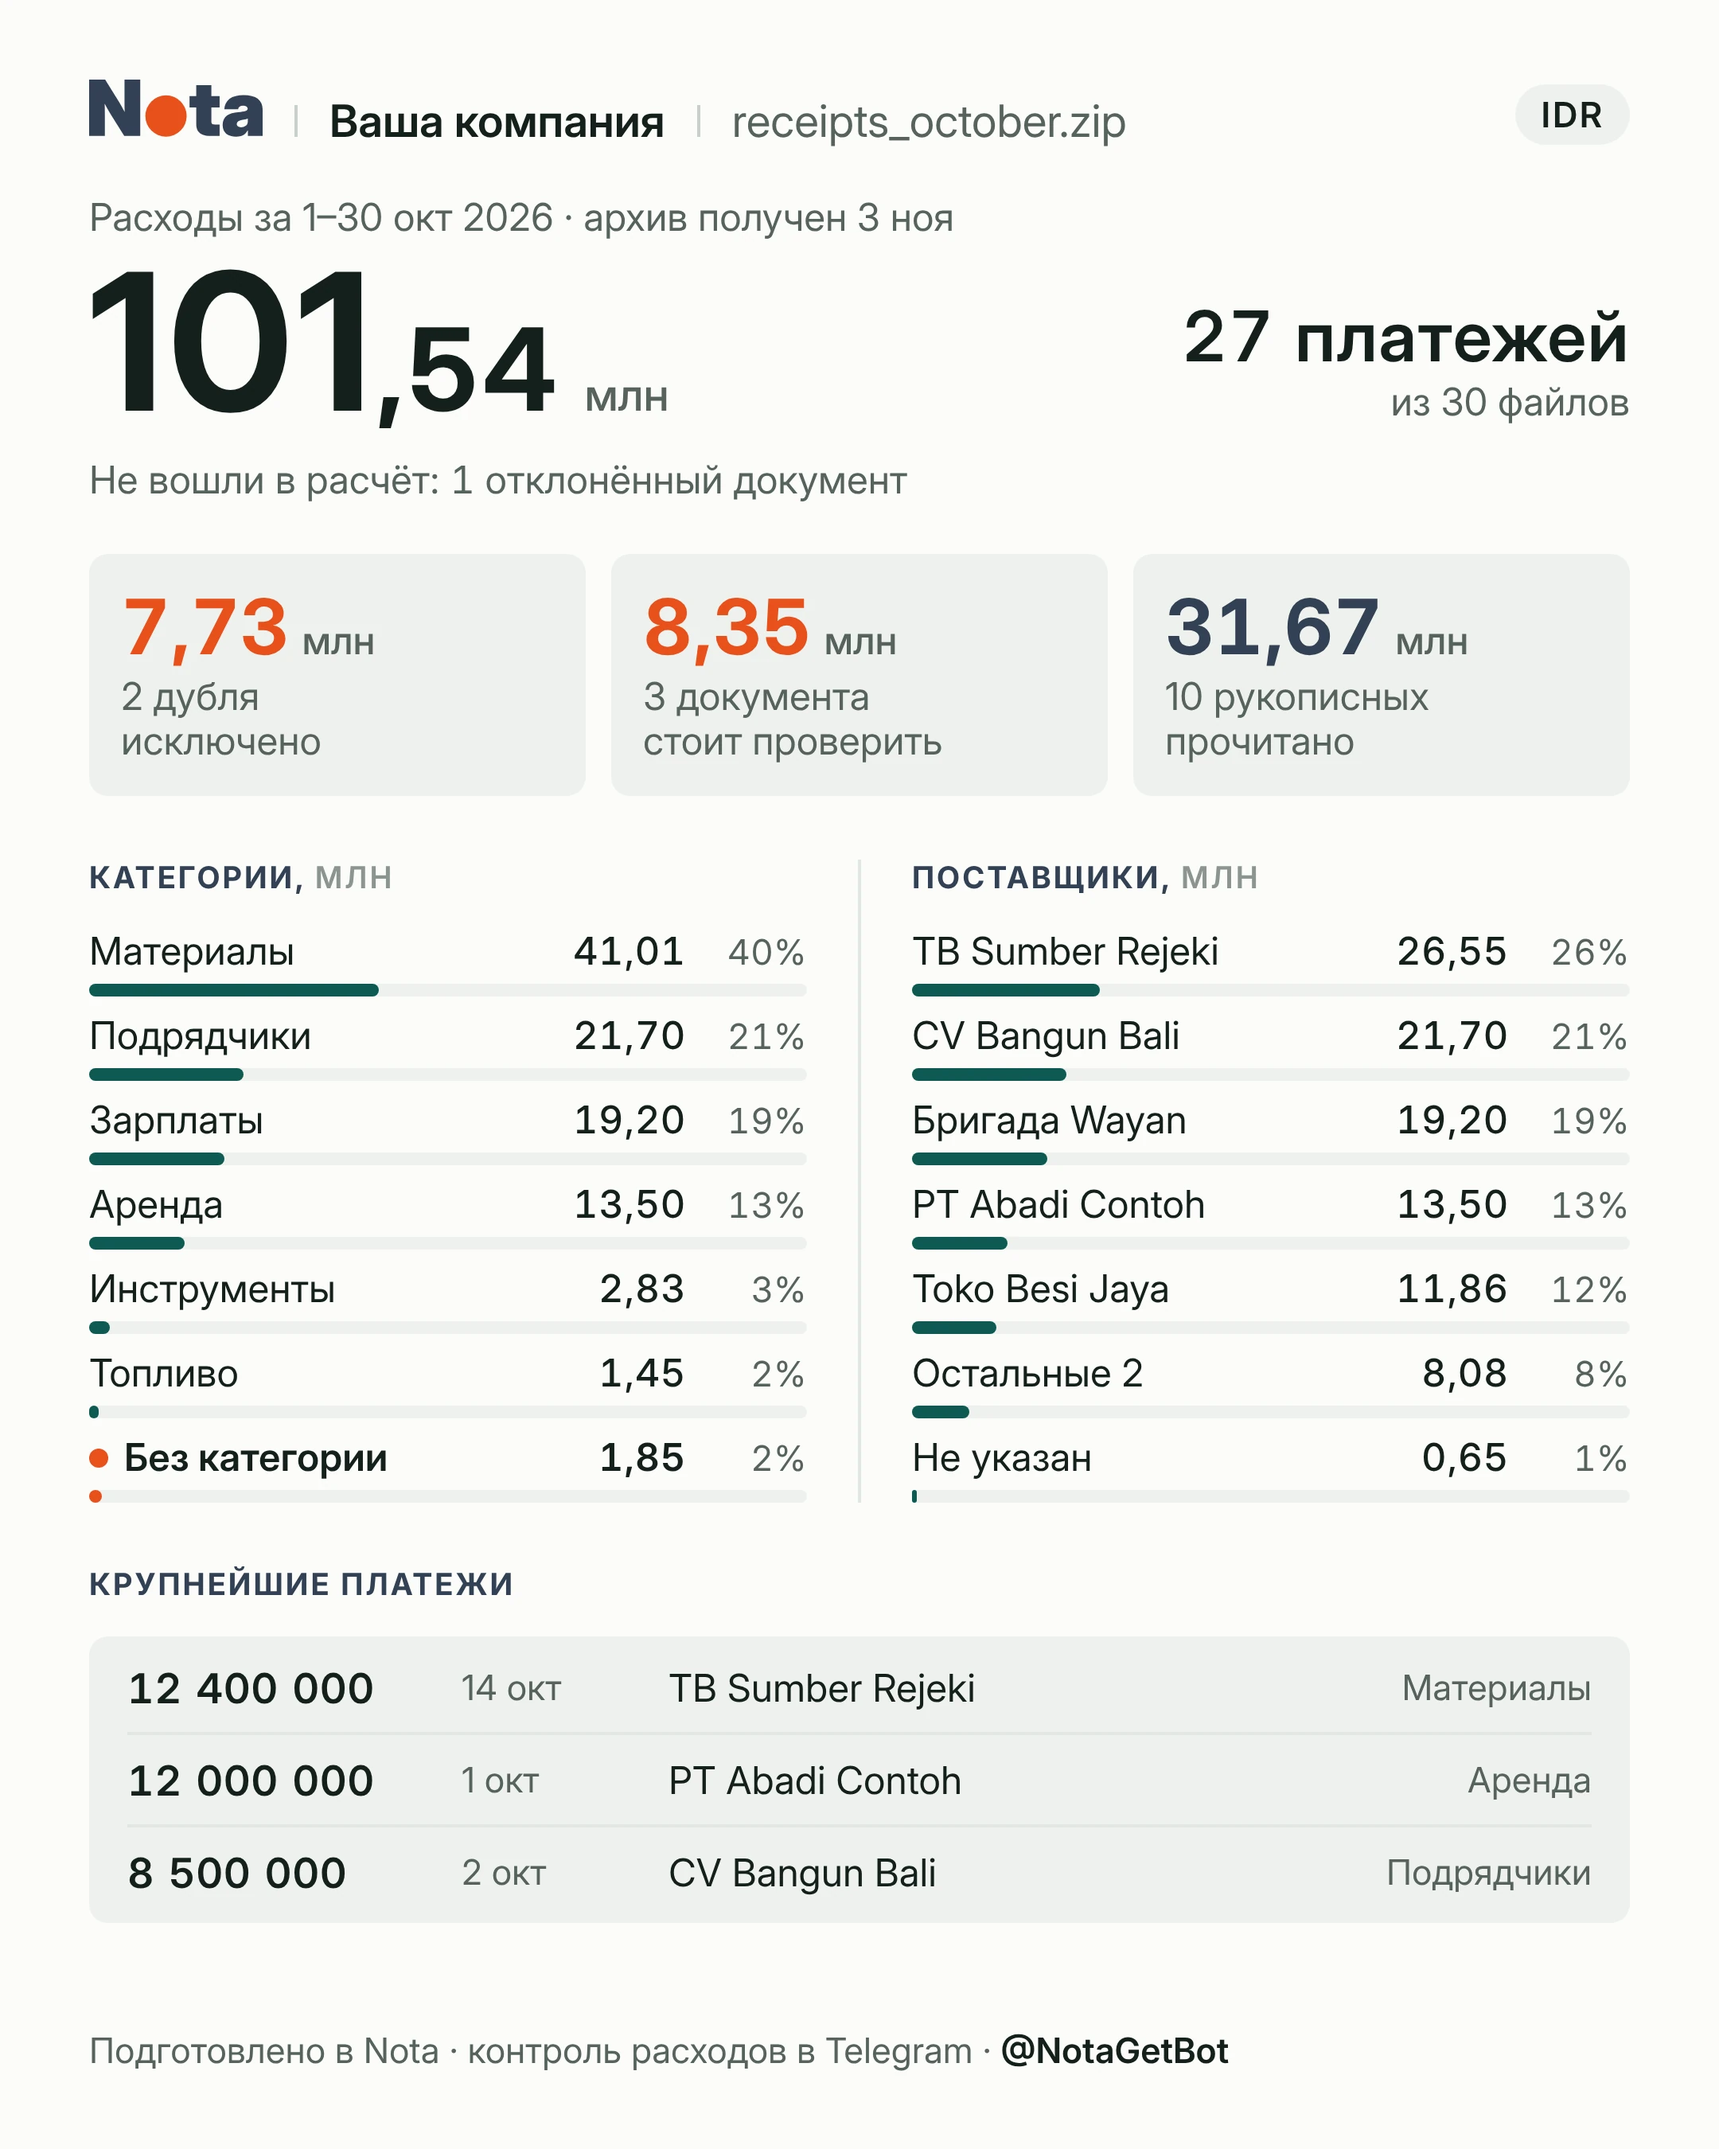
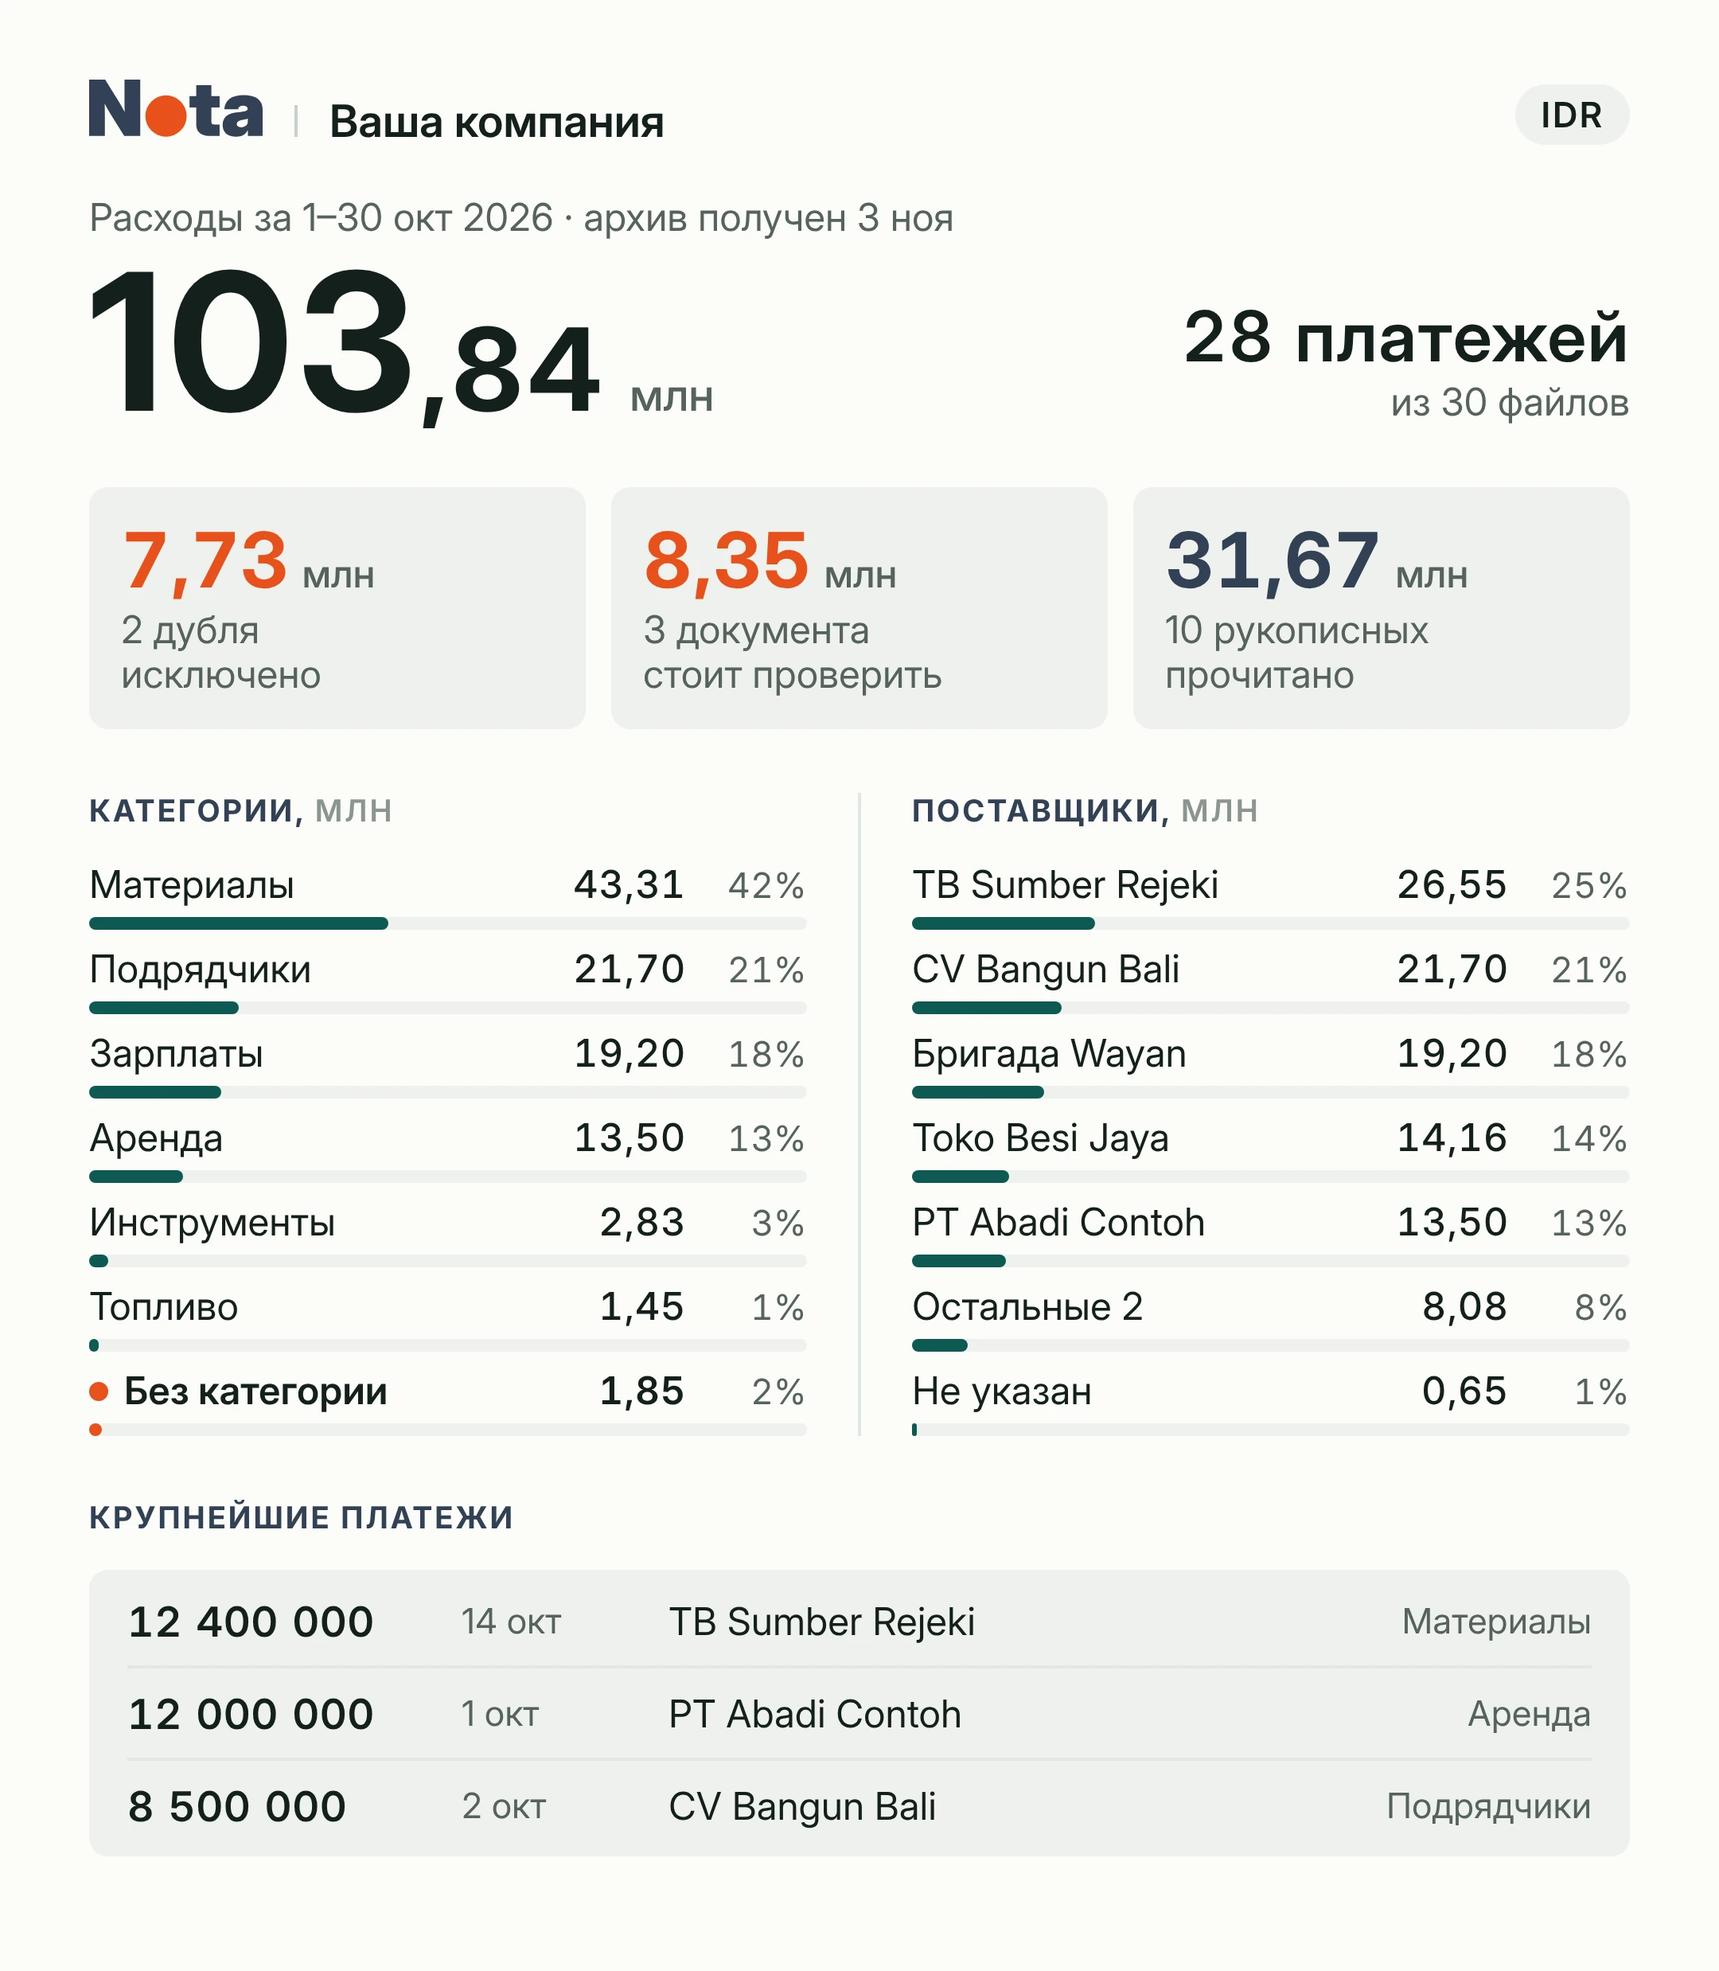
Лендинг v11: чистый короткий пример отчёта, без шапки над скриншотами таблицы
- Пример отчёта для сайта без имени файла и нижней строки «Подготовлено в Nota»,
  28 платежей из 30 файлов, 1080 × 1238; пропорции и высоты колонок под него только для v11.
  Собирается скриптом founder/report-cards/site-example.py; отчёты бота не меняются.
- Шапка «Nota · Google Таблицы» над скриншотами убрана на главной (параметр bar у ScreenSlot,
  архивные версии не тронуты).
- Обновлены картинка для соцсетей и подписи alt.

Claude-Session: https://claude.ai/code/session_01L3HhR7LSGwJtypFbeUeh92

diff --git a/nota/src/data/content-v11.ts b/nota/src/data/content-v11.ts
@@ -17,7 +17,7 @@ export const meta = {
   description:
     'Telegram-бот для чеков сотрудников. Пришлите архив чеков и накладных и через 15 минут получите отчёт о расходах с дублями и странными суммами. ' + FREE + ' бесплатно.',
   // Подпись к картинке для соцсетей (og:image:alt)
-  ogAlt: 'Nota: пришлите архив чеков — получите отчёт о расходах за 15 минут. Пример отчёта: 101,54 млн рупий, 27 платежей, 2 дубля',
+  ogAlt: 'Nota: пришлите архив чеков — получите отчёт о расходах за 15 минут. Пример отчёта: 103,84 млн рупий, 28 платежей, 2 дубля',
 };
 
 // Главная кнопка называет результат, а не усилие, и повторяет обещание заголовка (решение основателя 15.11).
@@ -52,7 +52,7 @@ export const hero = {
     ],
   },
   // Отчёт в двух размерах: 1080 — обычные экраны, 2160 — телефоны и экраны с высокой плотностью (жалоба на чёткость, 16.11)
-  report: { file: '/screens/report-archive-1080.webp', file2x: '/screens/report-archive-2160.webp', w: 1080, h: 1350, caption: 'Пример отчёта' },
+  report: { file: '/screens/report-archive-1080.webp', file2x: '/screens/report-archive-2160.webp', w: 1080, h: 1238, caption: 'Пример отчёта' },   // 19.11: без имени файла и нижней строки — короче
 };
 
 const drive = (s: string) => s.replace('на вашем Диске', 'на вашем Google Диске');

diff --git a/nota/src/styles/global.css b/nota/src/styles/global.css
@@ -1061,3 +1061,9 @@ html:not([data-hero="old"]) .v10 .cta-qr, .v10 .cta-qr { max-width: 200px; }
   .v11 #send .send-head { gap: 8px; }
   .v11 #send .send-head h3 { font-size: 19px; }
 }
+/* v11, 19.11: пример отчёта короче — 1080 × 1238 (без имени файла и нижней строки «Подготовлено в Nota»); пропорции и высоты колонок под него */
+@media (min-width: 1000px) {
+  html:not([data-rep="plain"]) .v9.v11 .story-fig img { width: min(100%, calc((100vh - 150px) * 0.8724)); aspect-ratio: 1080 / 1238; }
+  html:not([data-rep="plain"]) .v9.v11 #result { min-height: calc(min(596px, 100vh - 150px) + 34px + 112px); }
+  .v10.v11 .hero-left { min-height: calc(min(596px, 100vh - 150px) + 34px); }
+}

diff --git a/founder/report-cards/site-example.py b/founder/report-cards/site-example.py
@@ -1,0 +1,47 @@
+# Пример отчёта для сайта (nota/public/screens/report-archive-*.webp) и картинки для соцсетей.
+#   python3 site-example.py <папка_для_результата>
+# Карточку собирает генератор (generator/cards.py) на выдуманных данных, потом для сайта убираются имя файла в шапке
+# и нижняя строка «Подготовлено в Nota» (основатель, 19.11). Настоящие отчёты в боте остаются с ними.
+# Данные: 30 файлов = 28 платежей + 2 дубля, отклонённых нет — поэтому строки «Не вошли в расчёт» нет.
+import os, re, sys, subprocess, datetime as dt
+HERE = os.path.dirname(os.path.abspath(__file__)); sys.path.insert(0, os.path.join(HERE, 'generator'))
+import cards as C
+
+D = lambda d: dt.date(2026, 10, d)
+R = lambda d, a, cat, payee, typ='Receipt', check='OK', status='': dict(date=D(d), amount=a, cat=cat, payee=payee, type=typ, check=check, status=status)
+ROWS = [
+    R(1, 12_000_000, 'Аренда', 'PT Abadi Contoh', 'Invoice'), R(2, 8_500_000, 'Подрядчики', 'CV Bangun Bali', 'Invoice'),
+    R(3, 6_750_000, 'Материалы', 'TB Sumber Rejeki'), R(4, 2_350_000, 'Материалы', 'UD Sumber Air', 'Hand'),
+    R(5, 4_800_000, 'Зарплаты', 'Бригада Wayan', 'Hand'), R(6, 450_000, 'Топливо', 'Bengkel Sinar'),
+    R(7, 3_900_000, 'Материалы', 'Toko Besi Jaya', 'Hand'), R(8, 5_200_000, 'Подрядчики', 'CV Bangun Bali', 'Invoice'),
+    R(9, 1_850_000, 'Инструменты', 'Toko Besi Jaya'), R(10, 4_100_000, 'Материалы', 'TB Sumber Rejeki', check='Review'),
+    R(11, 4_800_000, 'Зарплаты', 'Бригада Wayan', 'Hand'), R(12, 1_780_000, 'Материалы', 'UD Sumber Air', 'Hand'),
+    R(14, 12_400_000, 'Материалы', 'TB Sumber Rejeki', 'Invoice'), R(15, 520_000, 'Топливо', 'Bengkel Sinar'),
+    R(16, 3_600_000, 'Подрядчики', 'CV Bangun Bali', 'Invoice', check='Review'), R(17, 2_270_000, 'Материалы', 'Toko Besi Jaya', 'Hand'),
+    R(18, 4_800_000, 'Зарплаты', 'Бригада Wayan', 'Hand'), R(19, 650_000, '', '', 'Hand', check='Review'),
+    R(20, 980_000, 'Инструменты', 'UD Sumber Air'), R(21, 3_300_000, 'Материалы', 'TB Sumber Rejeki'),
+    R(22, 480_000, 'Топливо', 'Bengkel Sinar'), R(23, 4_400_000, 'Подрядчики', 'CV Bangun Bali', 'Invoice'),
+    R(24, 1_520_000, 'Материалы', 'UD Sumber Air', 'Hand'), R(25, 4_800_000, 'Зарплаты', 'Бригада Wayan', 'Hand'),
+    R(26, 2_300_000, 'Материалы', 'Toko Besi Jaya'), R(27, 2_640_000, 'Материалы', 'Toko Besi Jaya'),
+    R(28, 1_200_000, '', 'Toko Besi Jaya'), R(30, 1_500_000, 'Аренда', 'PT Abadi Contoh', 'Invoice'),
+    R(9, 6_750_000, 'Материалы', 'TB Sumber Rejeki', check='DBL', status='Rejected'),   # тот же чек от другого сотрудника
+    R(21, 980_000, 'Инструменты', 'UD Sumber Air', check='DBL'),
+]
+
+def site_card():
+    h = C.archive_card(ROWS, 'Ваша компания', 'receipts_october.zip', dt.date(2026, 11, 3), loc='ru', cur='IDR')
+    # имя файла в шапке (с разделителем перед ним)
+    h2 = re.sub(r'<div style="flex: none; width: 2px; height: 20px; background: #C9D0CB"></div><div style="flex: 1 1 0;[^>]*>receipts_october\.zip</div>', '', h, count=1)
+    assert h2 != h, 'не нашёл имя файла в шапке'
+    # нижняя строка «Подготовлено в Nota · …»
+    i = h2.find('Подготовлено в Nota'); a = h2.rfind('<div style="padding-top: 32px; ', 0, i); b = h2.find('</div>', h2.find('@NotaGetBot', i)) + 6
+    assert a > 0, 'не нашёл нижнюю строку'
+    return h2[:a] + h2[b:]
+
+if __name__ == '__main__':
+    out = sys.argv[1] if len(sys.argv) > 1 else '.'
+    os.makedirs(out, exist_ok=True)
+    inc, dbl, rev, rej = C.classify(C.norm_rows(ROWS))
+    print('файлов', len(ROWS), '· платежей', len(inc), '· итог', sum(r['amount'] for r in inc), '· дублей', len(dbl), '· отклонённых', len(rej))
+    p = os.path.join(out, 'report-site.html'); open(p, 'w', encoding='utf-8').write(site_card())
+    subprocess.run(['node', os.path.join(HERE, 'generator', 'render.cjs'), p, p[:-5] + '.png', '2'], check=True)

diff --git a/founder/report-cards/README.md b/founder/report-cards/README.md
@@ -120,4 +120,4 @@
 - `generator/example.py` — пример на выдуманных данных: `python3 example.py` собирает четыре формата на русском в IDR в `generator/out/`; `--all` — все языки и валюты; `--scale 1` — в 1080 px.
 
 ## Заметки основателя
-- 19.11 по команде основателя на сайте заменена карточка архива (`nota/public/screens/report-archive-1080.webp` и `-2160.webp`) и картинка для соцсетей (`nota/public/og-v10.png`): новая собрана генератором на выдуманных данных — «Ваша компания», receipts_october.zip, 27 платежей из 30 файлов, 101,54 млн.
+- 19.11 по команде основателя на сайте заменена карточка архива (`nota/public/screens/report-archive-1080.webp` и `-2160.webp`) и картинка для соцсетей (`nota/public/og-v10.png`): новая собрана генератором на выдуманных данных скриптом `site-example.py`: для сайта без имени файла и нижней строки «Подготовлено в Nota», 1080 × 1238 — «Ваша компания», 28 платежей из 30 файлов, 103,84 млн. В боте отчёты остаются с ними.
